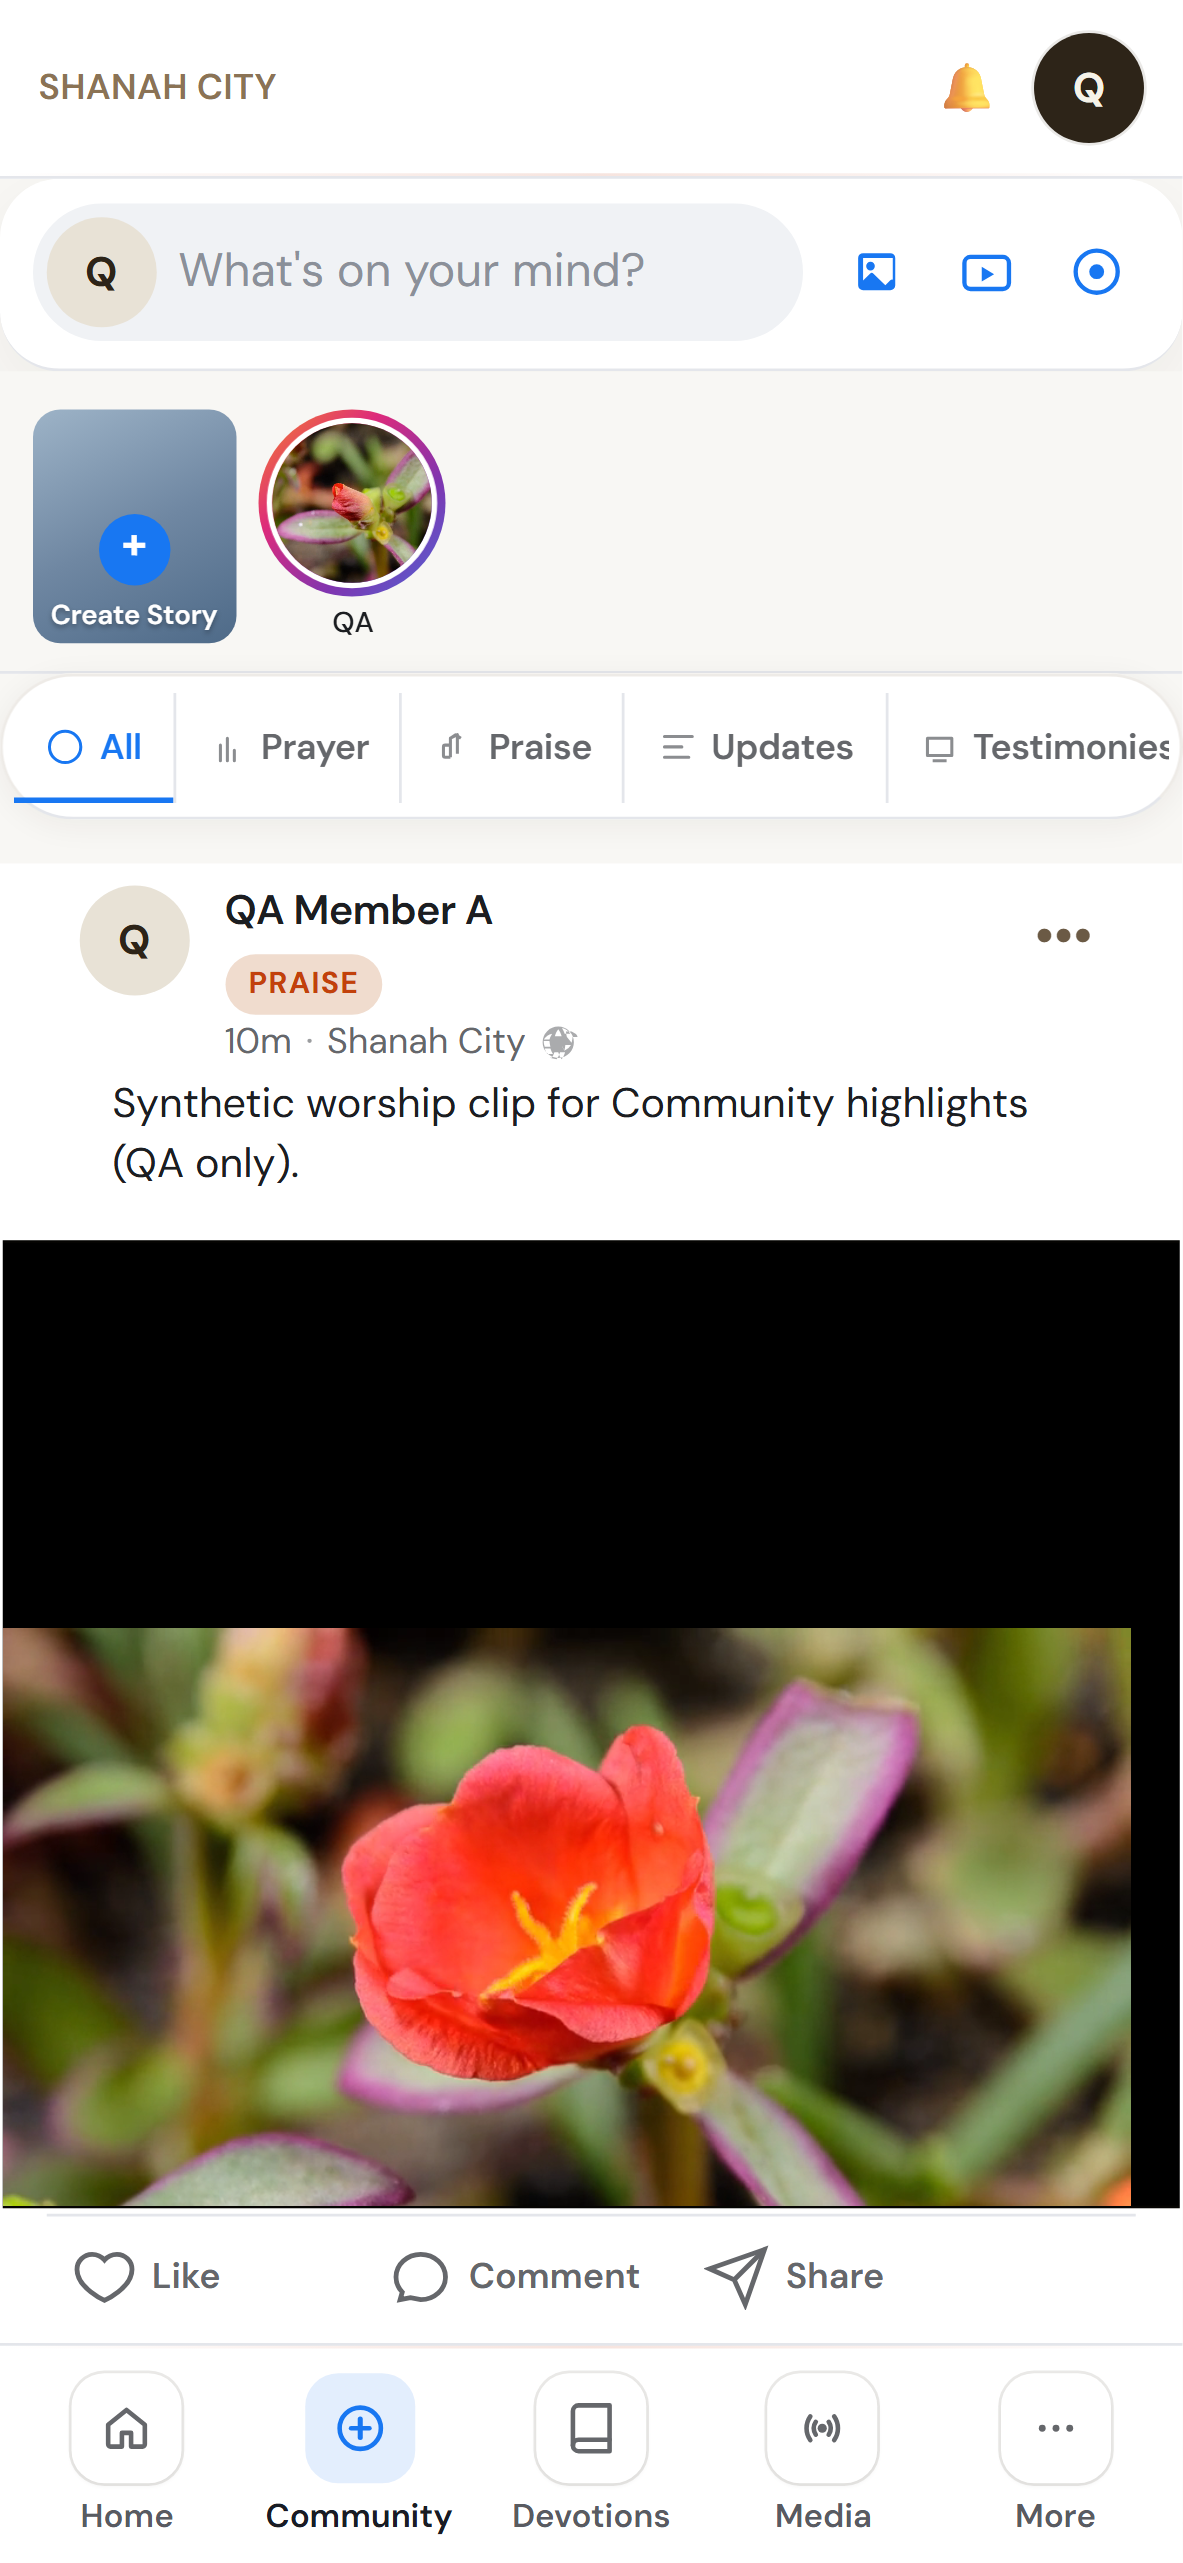
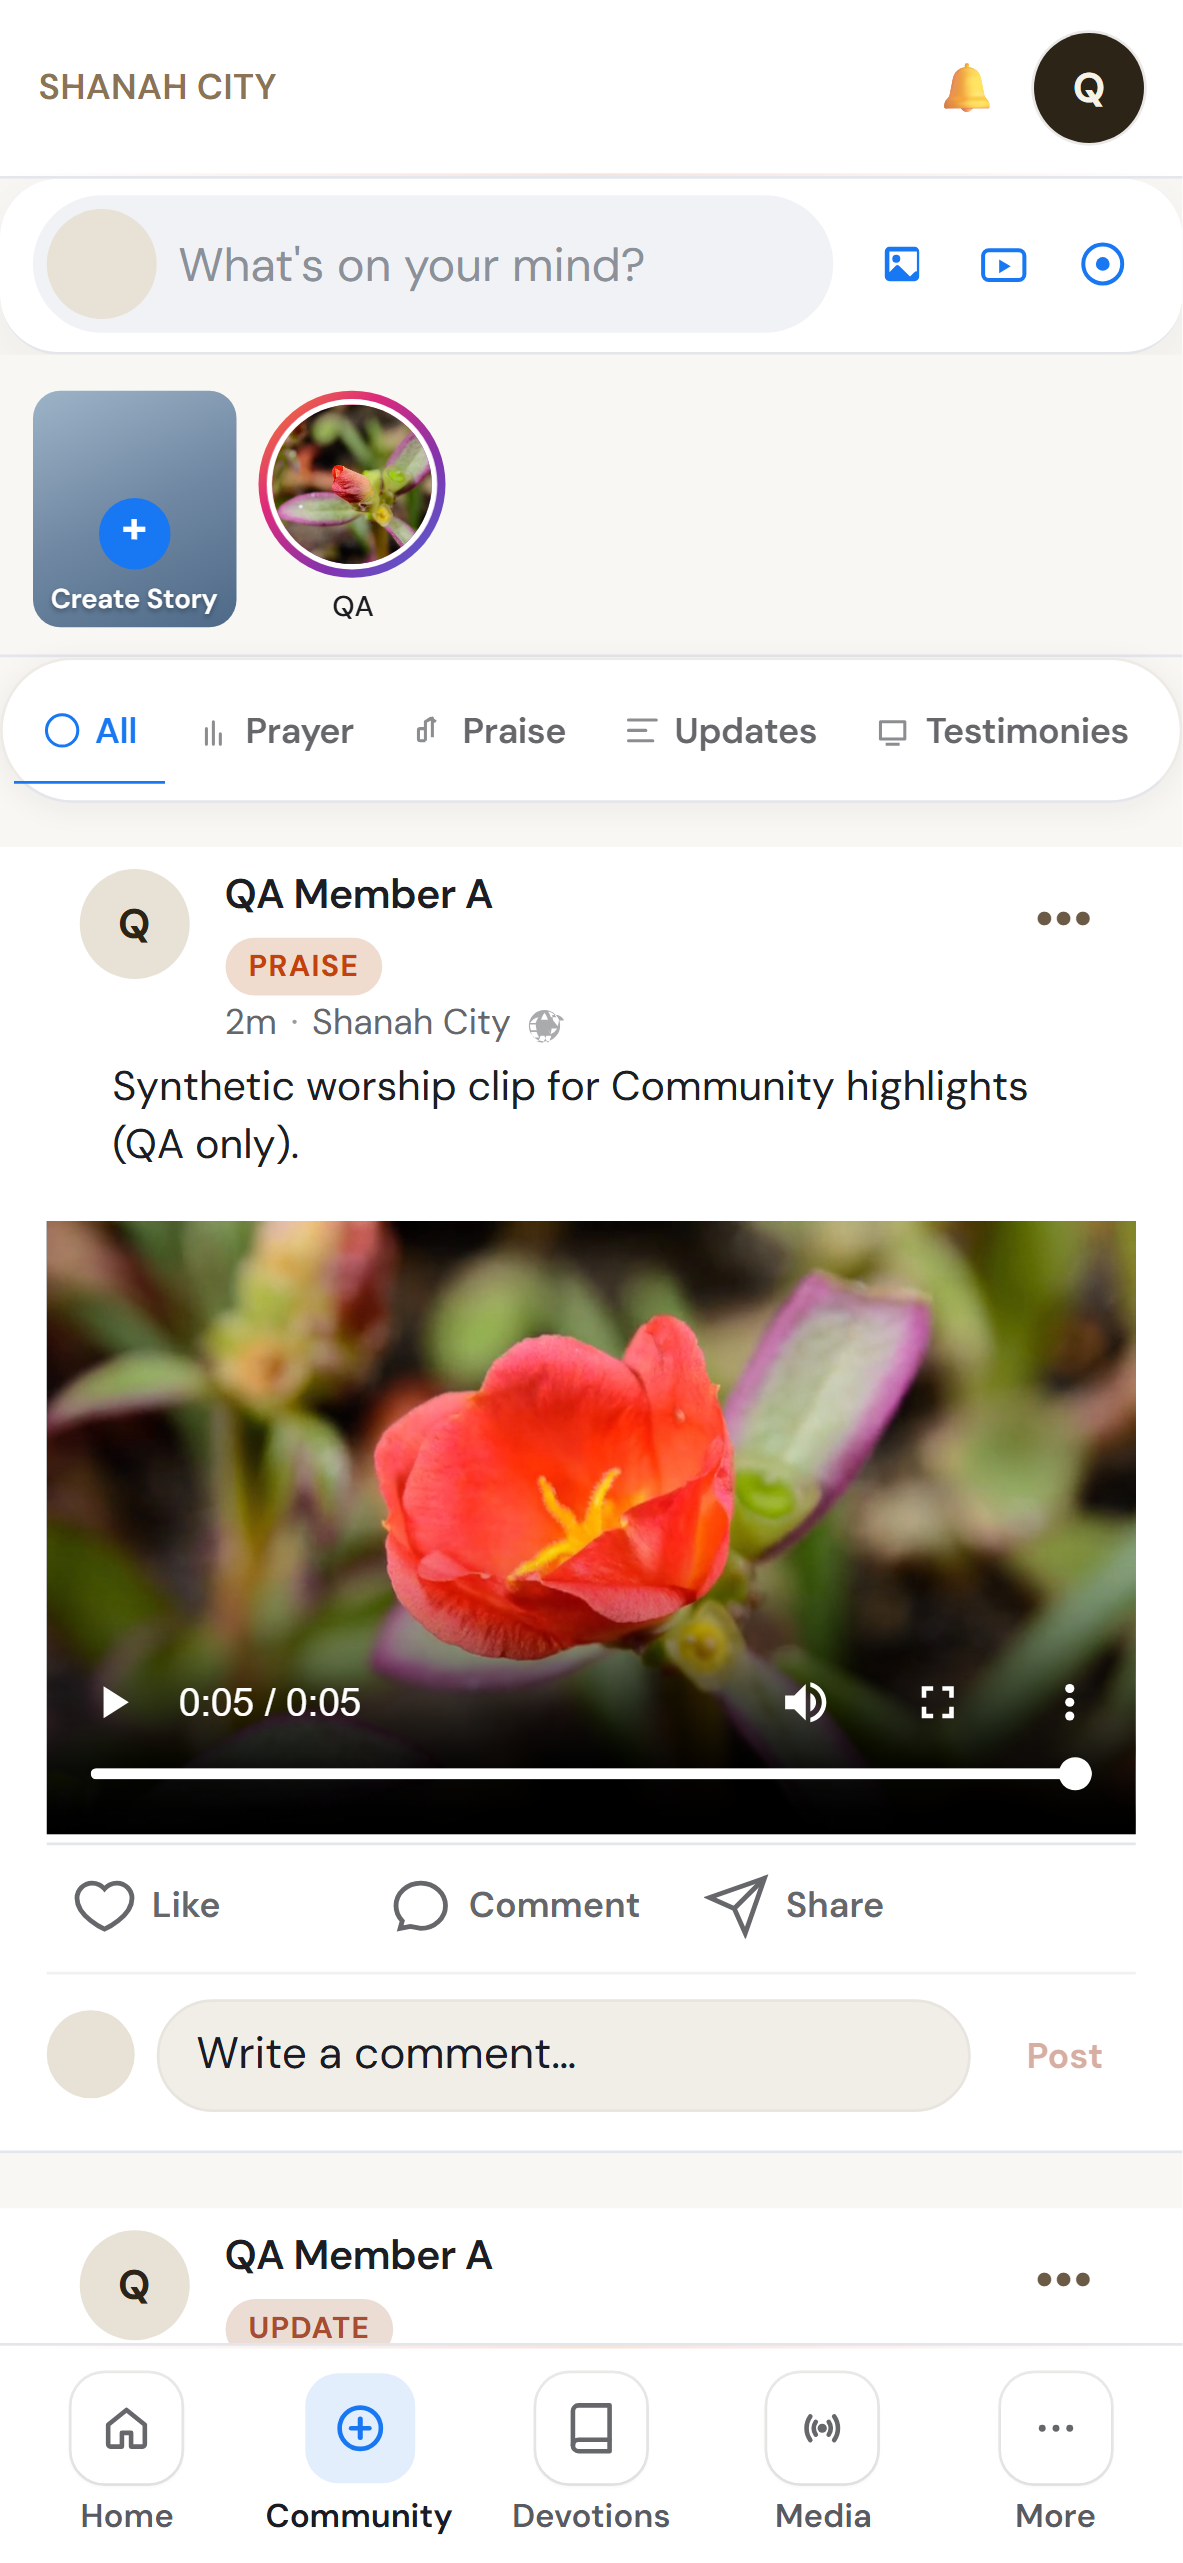
polish(community v6): media aspect, compact composer/filters, final shots
Social feed video uses 16:9 cover frames without letterboxing; full-width photos; slimmer filters and composer; Playwright photo/video post captures.

diff --git a/src/components/community/CommunityMediaCarousel.tsx b/src/components/community/CommunityMediaCarousel.tsx
@@ -40,10 +40,12 @@ function CarouselSlide({
   item,
   active,
   imageFit = "cover",
+  videoFit = "contain",
 }: {
   item: CommunityPostMediaItem;
   active: boolean;
   imageFit?: "cover" | "contain";
+  videoFit?: "cover" | "contain";
 }) {
   const videoRef = useRef<HTMLVideoElement | null>(null);
   const mediaUrl = resolveMediaUrl(item.url);
@@ -67,7 +69,9 @@ function CarouselSlide({
         controls
         playsInline
         preload="metadata"
-        className="h-full w-full object-contain"
+        className={`community-media-slide-video h-full w-full ${
+          videoFit === "cover" ? "object-cover" : "object-contain"
+        }`}
       >
         <source src={mediaUrl} type={inferCommunityVideoContentType(item.url)} />
       </video>
@@ -96,6 +100,8 @@ type CommunityMediaCarouselProps = {
   imageFit?: "cover" | "contain";
   /** Use urgent-alert flyer sizing (portrait vs landscape). */
   flyerLayout?: boolean;
+  /** Edge-to-edge social feed (16:9 video, full-width photos). */
+  socialFeedMedia?: boolean;
 };
 
 export function CommunityMediaCarousel({
@@ -103,6 +109,7 @@ export function CommunityMediaCarousel({
   compact,
   imageFit = "cover",
   flyerLayout = false,
+  socialFeedMedia = false,
 }: CommunityMediaCarouselProps) {
   const scrollerRef = useRef<HTMLDivElement | null>(null);
   const [activeIndex, setActiveIndex] = useState(0);
@@ -149,17 +156,37 @@ export function CommunityMediaCarousel({
   }
 
   if (items.length === 1) {
+    const item = items[0];
+    const socialFrame =
+      socialFeedMedia && item.type === "video"
+        ? "community-media-social-video-frame"
+        : socialFeedMedia && item.type === "image"
+          ? "community-media-social-photo-frame"
+          : singleFrameClass;
     return (
-      <div className={`border-y border-night-900/10 bg-black ${compact ? "" : carouselShellClass}`}>
-        <div className={singleFrameClass}>
-          <CarouselSlide item={items[0]} active imageFit={imageFit} />
+      <div
+        className={
+          socialFeedMedia
+            ? "community-media-social-shell"
+            : `border-y border-night-900/10 bg-black ${compact ? "" : carouselShellClass}`
+        }
+      >
+        <div className={socialFeedMedia ? socialFrame : singleFrameClass}>
+          <CarouselSlide
+            item={items[0]}
+            active
+            imageFit={imageFit}
+            videoFit={socialFeedMedia && item.type === "video" ? "cover" : "contain"}
+          />
         </div>
       </div>
     );
   }
 
   return (
-    <div className={`relative border-y border-night-900/10 bg-black ${compact ? "" : carouselShellClass}`}>
+    <div
+      className={`relative ${socialFeedMedia ? "community-media-social-shell border-0 bg-transparent" : "border-y border-night-900/10 bg-black"} ${compact ? "" : carouselShellClass}`}
+    >
       <div
         ref={scrollerRef}
         className="community-media-carousel-track"
@@ -167,7 +194,12 @@ export function CommunityMediaCarousel({
       >
         {items.map((item, index) => (
           <div key={`${item.url}-${index}`} className="community-media-carousel-slide">
-            <CarouselSlide item={item} active={index === activeIndex} imageFit={imageFit} />
+            <CarouselSlide
+              item={item}
+              active={index === activeIndex}
+              imageFit={imageFit}
+              videoFit={socialFeedMedia && item.type === "video" ? "cover" : "contain"}
+            />
           </div>
         ))}
       </div>

diff --git a/src/app/community/community-social-feed-v6.css b/src/app/community/community-social-feed-v6.css
@@ -42,7 +42,7 @@
 /* Composer — compact Facebook-style bar */
 .sc-v6-social-feed .community-feed-header {
   margin: 0;
-  padding: 0.55rem var(--community-v6-pad) 0.65rem;
+  padding: 0.38rem var(--community-v6-pad) 0.42rem;
   border-bottom: 1px solid var(--community-v6-border);
 }
 
@@ -97,8 +97,8 @@
 .sc-v6-social-feed .community-v6-composer__icon-btn {
   display: grid;
   place-items: center;
-  width: 2.35rem;
-  height: 2.35rem;
+  width: 2.125rem;
+  height: 2.125rem;
   border: 0;
   border-radius: 999px;
   background: transparent;
@@ -111,8 +111,8 @@
 }
 
 .sc-v6-social-feed .community-v6-composer__icon-btn svg {
-  width: 1.35rem;
-  height: 1.35rem;
+  width: 1.25rem;
+  height: 1.25rem;
 }
 
 /* Stories — 68px circles, gradient rings, names below */
@@ -356,11 +356,11 @@
   flex: 0 0 auto;
   display: inline-flex;
   align-items: center;
-  gap: 0.3rem;
-  padding: 0.55rem 0.7rem;
+  gap: 0.28rem;
+  padding: 0.4rem 0.62rem;
   border: 0;
-  border-right: 1px solid var(--community-v6-border);
   border-radius: 0;
+  box-shadow: inset -1px 0 0 var(--community-v6-border);
   background: transparent;
   color: var(--community-v6-muted);
   font-size: 0.8125rem;
@@ -370,7 +370,7 @@
 }
 
 .sc-v6-social-feed .community-feed-tab--v6:last-child {
-  border-right: 0;
+  box-shadow: none;
 }
 
 .sc-v6-social-feed .community-feed-tab--v6 svg {
@@ -419,9 +419,65 @@
   border-radius: 0;
 }
 
+.sc-v6-social-feed .community-media-social-shell {
+  width: 100%;
+  max-width: 100%;
+  background: var(--community-v6-surface);
+  border: none;
+}
+
+.sc-v6-social-feed .community-media-social-video-frame {
+  position: relative;
+  width: 100%;
+  aspect-ratio: 16 / 9;
+  max-height: min(52vh, 26rem);
+  overflow: hidden;
+  background: #0a0a0a;
+  line-height: 0;
+}
+
+.sc-v6-social-feed .community-media-social-video-frame .community-media-slide-video {
+  display: block;
+  width: 100%;
+  height: 100%;
+  object-fit: cover;
+  object-position: center;
+}
+
+.sc-v6-social-feed .community-media-social-photo-frame {
+  width: 100%;
+  max-height: min(56vh, 28rem);
+  overflow: hidden;
+  background: var(--community-v6-surface);
+  line-height: 0;
+}
+
+.sc-v6-social-feed .community-media-social-photo-frame img {
+  display: block;
+  width: 100%;
+  height: auto;
+  max-height: min(56vh, 28rem);
+  object-fit: cover;
+  object-position: center;
+}
+
+.sc-v6-social-feed .community-media-social-shell .community-media-carousel-slide {
+  aspect-ratio: 16 / 9;
+  max-height: min(52vh, 26rem);
+  min-height: 0;
+  background: #0a0a0a;
+  align-items: stretch;
+}
+
+.sc-v6-social-feed .community-media-social-shell .community-media-carousel-slide:has(img) {
+  aspect-ratio: auto;
+  max-height: min(56vh, 28rem);
+  background: var(--community-v6-surface);
+}
+
 .sc-v6-social-feed .community-post-card--social-feed .community-media-carousel {
   border-radius: 0;
-  max-height: min(56vh, 22rem);
+  max-height: none;
 }
 
 .sc-v6-social-feed .community-post-engagement-stats {

diff --git a/e2e/community-social-feed-v6.spec.ts b/e2e/community-social-feed-v6.spec.ts
@@ -94,6 +94,32 @@ for (const vp of [
 
     await page.screenshot({ path: path.join(dir, `community-v6-feed-${vp.tag}.png`) });
 
+    const photoPost = page
+      .locator(".community-post-card--social-feed")
+      .filter({ has: page.locator(".community-media-social-photo-frame img, .community-post-media img") })
+      .first();
+    if (await photoPost.count()) {
+      await photoPost.evaluate((el) => el.scrollIntoView({ block: "center" }));
+      await page.waitForTimeout(200);
+      await page.screenshot({ path: path.join(dir, `community-v6-post-photo-${vp.tag}.png`) });
+    }
+
+    const videoPost = page
+      .locator(".community-post-card--social-feed")
+      .filter({ has: page.locator(".community-media-social-video-frame video, .community-media-slide-video") })
+      .first();
+    if (await videoPost.count()) {
+      await videoPost.evaluate((el) => el.scrollIntoView({ block: "center" }));
+      await expect
+        .poll(async () => {
+          const box = await videoPost.locator("video").first().boundingBox();
+          return box ? box.height : 0;
+        })
+        .toBeGreaterThan(120);
+      await page.waitForTimeout(300);
+      await page.screenshot({ path: path.join(dir, `community-v6-post-video-${vp.tag}.png`) });
+    }
+
     await assertNoHorizontalOverflow(page);
     await assertNoRuntimeErrors(page, pageErrors, consoleErrors);
   });

diff --git a/src/components/community/CommunityPostCard.tsx b/src/components/community/CommunityPostCard.tsx
@@ -1019,6 +1019,7 @@ export function CommunityPostCard({
             items={mediaItems}
             imageFit={socialFeed && !isUrgentNews && post.type !== "announcement" ? "cover" : "contain"}
             flyerLayout={isUrgentNews || post.type === "announcement"}
+            socialFeedMedia={socialFeed && !isUrgentNews && post.type !== "announcement"}
           />
           {!editing && mediaItems.some((item) => item.type === "image") ? (
             <div className="flex flex-wrap gap-2 border-t border-night-900/8 px-3 py-2 dark:border-white/10">

diff --git a/docs/community-social-feed-v6-screenshots/README.md b/docs/community-social-feed-v6-screenshots/README.md
@@ -7,6 +7,6 @@ PREMIUM_V4_FIXTURE_TEST_DATABASE_CONFIRMED=YES PLAYWRIGHT_BASE_URL=http://127.0.
 PLAYWRIGHT_COMMUNITY_SAFE_FIXTURES=1 PLAYWRIGHT_COMMUNITY_EMAIL=... PLAYWRIGHT_COMMUNITY_PASSWORD=... npx playwright test -c playwright.community-social-feed-v6.config.ts
 ```
 
-Owner review captures (full mobile chrome): `community-v6-full-mobile-*` (390×844 / 430×932), plus `community-v6-stories-*`, `community-v6-filters-*`, `community-v6-first-post-*`.
+Owner review captures (full mobile chrome): `community-v6-full-mobile-*`, `community-v6-post-photo-*`, `community-v6-post-video-*`, plus stories/filters/first-post variants at 390×844 and 430×932.
 
 Reels rail appears only when 2+ video highlights exist (compact 4.5rem tiles); single-video posts surface in the main feed only.
